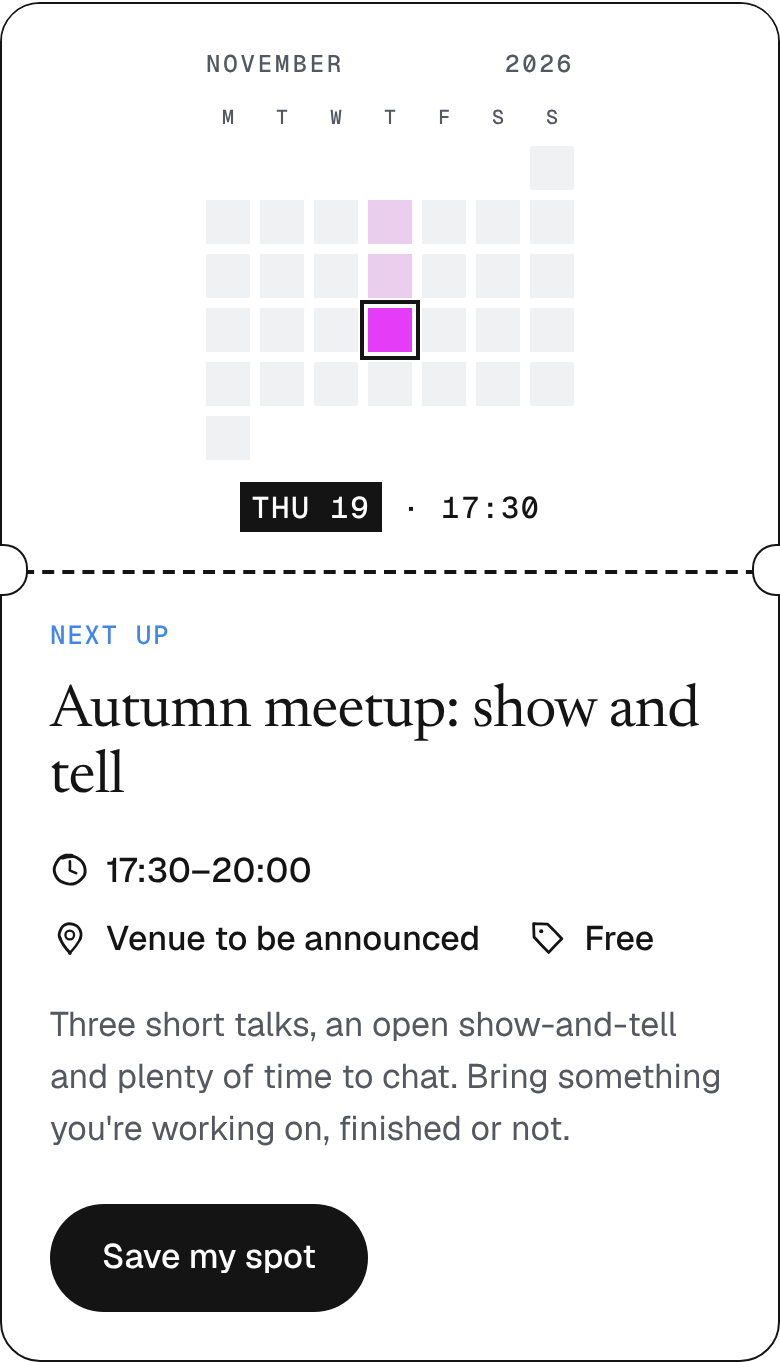
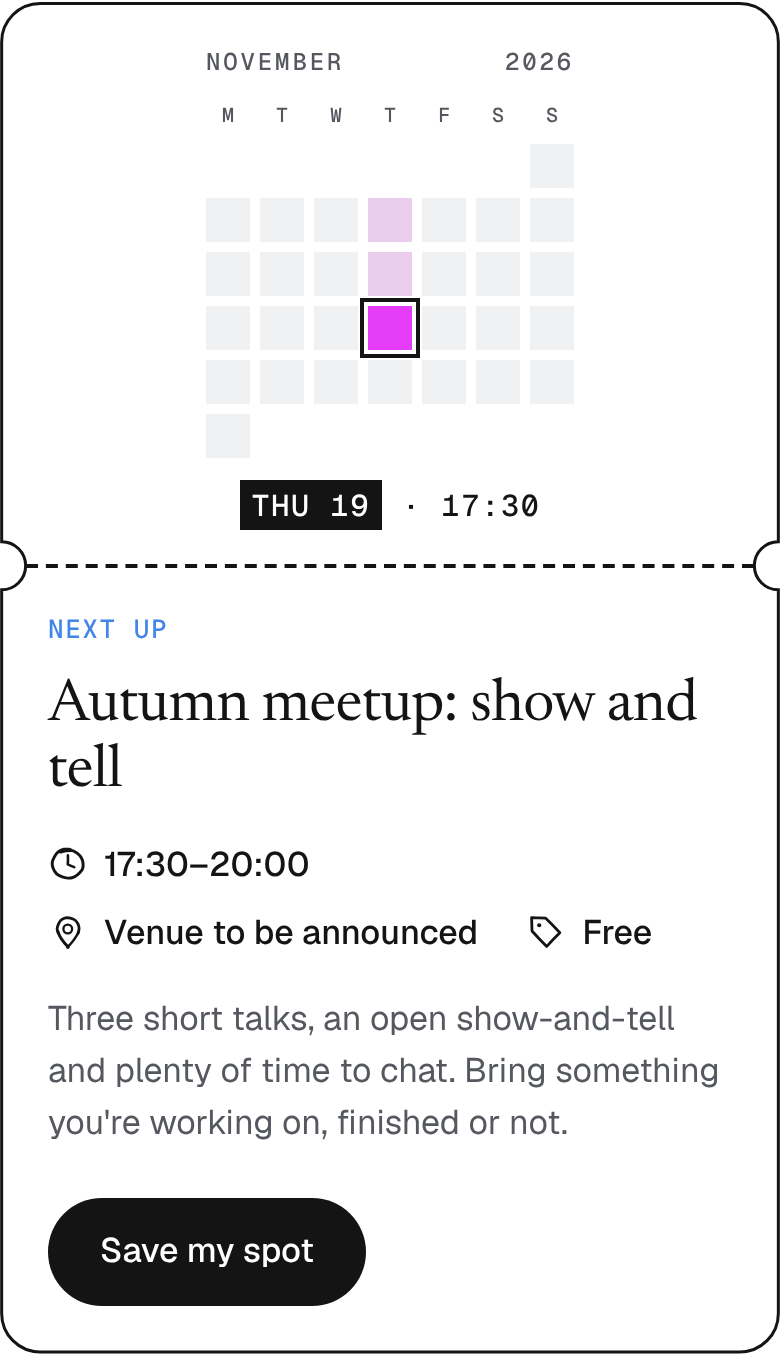
Event ticket asset: true cut-out notches
Draw the ticket outline as one shape with the two notches subtracted,
so they are fully transparent, and stop the tear line at the notches.
PNGs exported on a transparent background.

Claude-Session: https://claude.ai/code/session_01VkNXkYhNUFVsheW2ZXUG2V

diff --git a/tampere-design-page/assets/event-ticket/event-ticket.html b/tampere-design-page/assets/event-ticket/event-ticket.html
@@ -9,12 +9,13 @@
 body { margin:0; background:var(--paper); color:var(--ink); font:400 17px/1.55 var(--f-body); -webkit-font-smoothing:antialiased; }
 .stage { padding:48px; display:grid; gap:48px; justify-items:start; }
 .ticket { position:relative; display:grid; grid-template-columns:auto minmax(0,1fr); width:960px; max-width:100%;
-  border:1.5px solid var(--ink); border-radius:20px; background:var(--paper); }
-.stub { position:relative; display:grid; align-content:center; justify-items:start; gap:16px; padding:32px 36px; border-right:2px dashed var(--ink); background:var(--paper); border-radius:18.5px 0 0 18.5px; }
-/* notches: half circles that cover the ticket edge, so only the curve shows */
-.stub::before, .stub::after { content:""; position:absolute; right:-13px; width:24px; height:13.5px; background:var(--paper); border:1.5px solid var(--ink); }
-.stub::before { top:-1.5px; border-top:0; border-radius:0 0 12px 12px; }
-.stub::after { bottom:-1.5px; border-bottom:0; border-radius:12px 12px 0 0; }
+  }
+.ticket > .shape { position:absolute; inset:0; width:100%; height:100%; overflow:visible; pointer-events:none; }
+.ticket > .shape path { fill:var(--paper); stroke:var(--ink); stroke-width:1.5; }
+.stub, .tbody { position:relative; z-index:1; }
+.stub { position:relative; display:grid; align-content:center; justify-items:start; gap:16px; padding:32px 36px; }
+/* the tear line stops where the notches begin */
+.stub::after { content:""; position:absolute; right:0; top:13px; bottom:13px; border-right:2px dashed var(--ink); }
 .month { display:flex; justify-content:space-between; align-items:baseline; width:184px; font:500 12px/1 var(--f-mono); letter-spacing:.12em; text-transform:uppercase; color:var(--soft); }
 .cal { display:grid; grid-template-columns:repeat(7,22px); gap:5px; }
 .cal .dn { font:500 10px/1 var(--f-mono); color:var(--soft); text-align:center; padding-bottom:4px; }
@@ -34,10 +35,8 @@ p { margin:0; max-width:52ch; color:var(--soft); }
 .cta { display:inline-flex; align-items:center; height:54px; padding:0 26px; border-radius:999px; background:var(--ink); color:#fff; font:500 17px/1 var(--f-body); text-decoration:none; margin-top:8px; }
 /* phone version: stub across the top */
 .ticket.phone { grid-template-columns:1fr; width:390px; }
-.ticket.phone .stub { border-right:0; border-bottom:2px dashed var(--ink); padding:24px; justify-items:center; border-radius:18.5px 18.5px 0 0; }
-.ticket.phone .stub::before, .ticket.phone .stub::after { top:auto; bottom:-13px; width:13.5px; height:24px; border:1.5px solid var(--ink); }
-.ticket.phone .stub::before { left:-1.5px; right:auto; border-left:0; border-radius:0 12px 12px 0; }
-.ticket.phone .stub::after { right:-1.5px; border-right:0; border-radius:12px 0 0 12px; }
+.ticket.phone .stub { padding:24px; justify-items:center; }
+.ticket.phone .stub::after { top:auto; bottom:0; left:13px; right:13px; border-right:0; border-bottom:2px dashed var(--ink); }
 .ticket.phone .tbody { padding:24px; }
 .ticket.phone h3 { font-size:30px; }
 </style></head><body><main class="stage">
@@ -69,4 +68,24 @@ p { margin:0; max-width:52ch; color:var(--soft); }
     <a class="cta" href="#">Save my spot</a>
   </div>
 </article>
-</main></body></html>
+</main>
+<script>
+// draw each ticket's outline as one shape with the two notches cut out of it
+const NS = "http://www.w3.org/2000/svg";
+const draw = () => document.querySelectorAll(".ticket").forEach((t) => {
+  t.querySelector(".shape")?.remove();
+  const w = t.offsetWidth, h = t.offsetHeight, stub = t.querySelector(".stub"), R = 20, r = 12, i = .75;
+  let d;
+  if (t.classList.contains("phone")) {
+    const Y = stub.offsetTop + stub.offsetHeight - 1;
+    d = `M${R} ${i} H${w - R} A${R - i} ${R - i} 0 0 1 ${w - i} ${R} V${Y - r} A${r} ${r} 0 0 0 ${w - i} ${Y + r} V${h - R} A${R - i} ${R - i} 0 0 1 ${w - R} ${h - i} H${R} A${R - i} ${R - i} 0 0 1 ${i} ${h - R} V${Y + r} A${r} ${r} 0 0 0 ${i} ${Y - r} V${R} A${R - i} ${R - i} 0 0 1 ${R} ${i} Z`;
+  } else {
+    const X = stub.offsetLeft + stub.offsetWidth - 1;
+    d = `M${R} ${i} H${X - r} A${r} ${r} 0 0 0 ${X + r} ${i} H${w - R} A${R - i} ${R - i} 0 0 1 ${w - i} ${R} V${h - R} A${R - i} ${R - i} 0 0 1 ${w - R} ${h - i} H${X + r} A${r} ${r} 0 0 0 ${X - r} ${h - i} H${R} A${R - i} ${R - i} 0 0 1 ${i} ${h - R} V${R} A${R - i} ${R - i} 0 0 1 ${R} ${i} Z`;
+  }
+  const svg = document.createElementNS(NS, "svg"); svg.setAttribute("class", "shape"); svg.setAttribute("viewBox", `0 0 ${w} ${h}`); svg.setAttribute("aria-hidden", "true");
+  const path = document.createElementNS(NS, "path"); path.setAttribute("d", d); svg.append(path); t.prepend(svg);
+});
+document.fonts.ready.then(draw); addEventListener("resize", draw);
+</script>
+</body></html>
